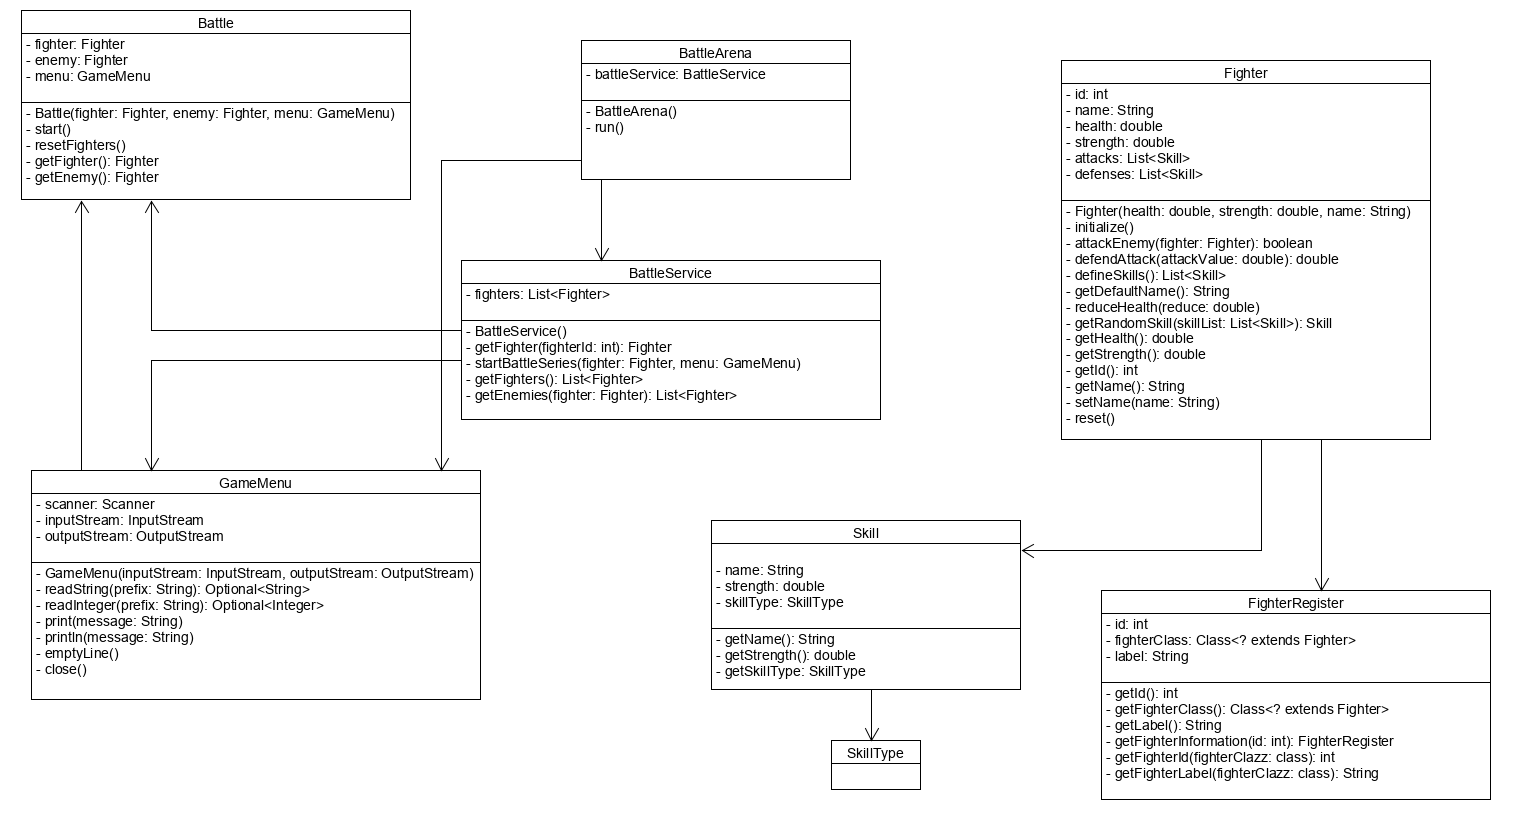
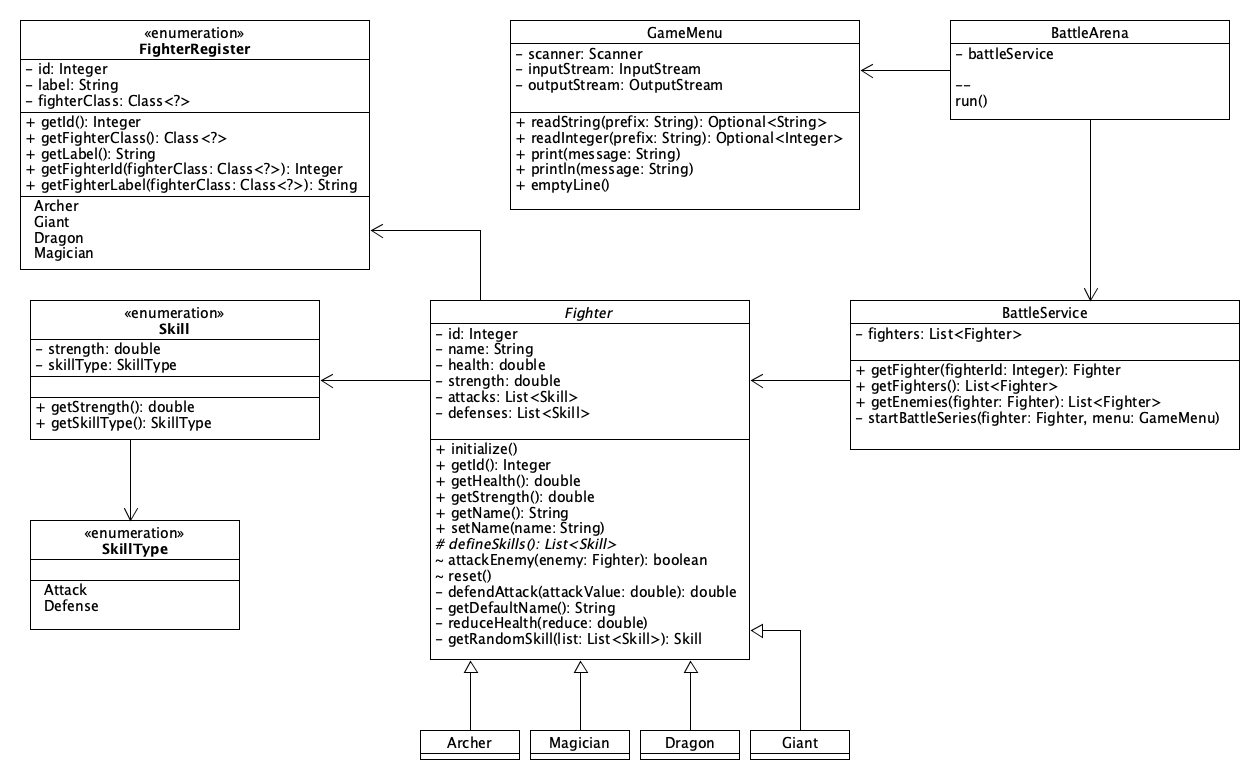
Updated index.md, removed unused methods and attributes

diff --git a/src/main/java/de/juliandrees/battlearena/model/Skill.java b/src/main/java/de/juliandrees/battlearena/model/Skill.java
@@ -2,27 +2,21 @@ package de.juliandrees.battlearena.model;
 
 public enum Skill {
 
-    PUNCH("Schlag", 0.6, SkillType.ATTACK),
-    KICK("Tritt", 0.4, SkillType.ATTACK),
-    SHOOT("Schießen", 0.5, SkillType.ATTACK),
-    BURN("Verbrennen", 0.9, SkillType.ATTACK),
+    PUNCH(0.6, SkillType.ATTACK),
+    KICK( 0.4, SkillType.ATTACK),
+    SHOOT(0.5, SkillType.ATTACK),
+    BURN(0.9, SkillType.ATTACK),
 
-    BLOCK("Blocken", 0.2, SkillType.DEFENSE)
+    BLOCK(0.2, SkillType.DEFENSE)
 
     ;
 
-    private String name;
     private double strength;
     private SkillType skillType;
 
-    Skill(final String name, final double strength, final SkillType skillType) {
-        this.name = name;
+    Skill(final double strength, final SkillType skillType) {
         this.strength = strength;
         this.skillType = skillType;
-    }
-
-    public String getName() {
-        return name;
     }
 
     public double getStrength() {

diff --git a/src/main/java/de/juliandrees/battlearena/model/FighterRegister.java b/src/main/java/de/juliandrees/battlearena/model/FighterRegister.java
@@ -6,7 +6,6 @@ import de.juliandrees.battlearena.model.fighter.Giant;
 import de.juliandrees.battlearena.model.fighter.Magician;
 
 import java.util.Arrays;
-import java.util.Optional;
 
 public enum FighterRegister {
 
@@ -37,11 +36,6 @@ public enum FighterRegister {
 
     public String getLabel() {
         return label;
-    }
-
-    public static FighterRegister getFighterInformation(final int id) {
-        Optional<FighterRegister> optional =  Arrays.stream(FighterRegister.values()).filter(fighterRegister -> fighterRegister.getId() == id).findFirst();
-        return optional.orElse(null);
     }
 
     public static int getFighterId(final Class<? extends Fighter> fighterClazz) {

diff --git a/docs/index.md b/docs/index.md
@@ -46,8 +46,20 @@ Für die Liste von Skills ist eine abstrakte Methode definiert, die in den Subkl
 protected abstract List<Skill> defineSkills();
 ```
 
+
+
 ### Objektorientierung
-Datenblöcke, die inhaltlich zu einem Thema / Bereich gehören, wurden hier in einzelne Klassen / Objekte aufgeteilt und zusammengefasst. Daraus entstanden folgende Klassen:
+Datenblöcke, die inhaltlich zu einem Thema / Bereich gehören, wurden hier in einzelne Klassen / Objekte aufgeteilt und zusammengefasst. 
+
+#### Einmalige Instanziierung (Zuständigkeiten)
+Klassen wie `BattleService` und `GameMenu` werden nur einmal instanziiert. Der Grund: inhaltlich gehören die Attribute (z.B. die Streams im GameMenu)
+nicht zu einer anderen Klasse, sie müssen nicht für alle verfügbar sein (wie sie es z.B. in der Main-Klasse wären).
+
+Durch die Aufteilung auf Klassen beinhaltet die Hauptklasse deutlich weniger Referenzen auf Objekte und kann trotzdem alle nötigen Funktionen nutzen,
+die Zuständigkeiten werden in Klassen ausgelagert.
+So werden die Attribute ebenfalls vor fremden und falschem Zugriff geschützt (Thema: Datenkapselung).
+
+Aus der Abstraktion entstanden folgende Klassen:
 
 #### `Fighter.java`
 Der Basisfighter. Jeder Fighter hat eine Id und einen Namen, Lebenspunkte und die eigene Stärke. Ein Fighter soll angreifen und sich verteidigen können.
@@ -57,6 +69,9 @@ Ein Battle ist ein Kampf, der zwischen zwei Fightern ausgetragen wird. Ein Kampf
 
 #### `GameMenu.java`
 Das GameMenu ist die Konsole, auf der der Benutzer Eingaben und das System Ausgaben machen kann.
+
+#### `BattleService.java`
+Der BattleService ist ein Service welcher das Spiel verwaltet. Er beinhaltet die Fighter und initialisiert die Spiele mit den Gegnern. 
 
 ### Polymorphie
 Die einzelnen Implementierungen benötigen keine besonderen Implementierungen von Methoden, außer eine: `defineSkills(): List<Skill>`. In dieser Methode werden für jede Klasse die Fähigkeiten definiert, die der im Kampf zur Verfügung hat. Da dies für die Superklasse nicht festgelegt werden kann, muss dies durch Polymorphismus in den Subklassen festgelegt werden.
